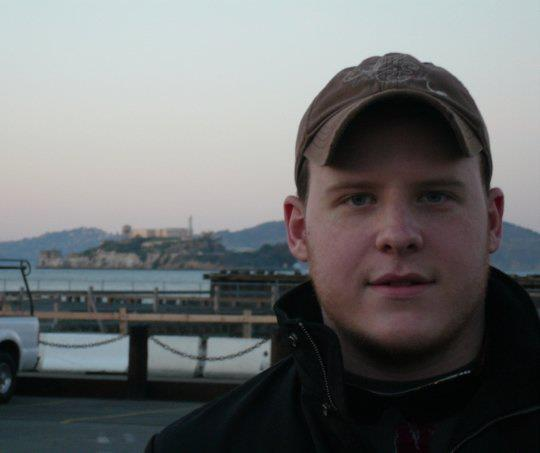
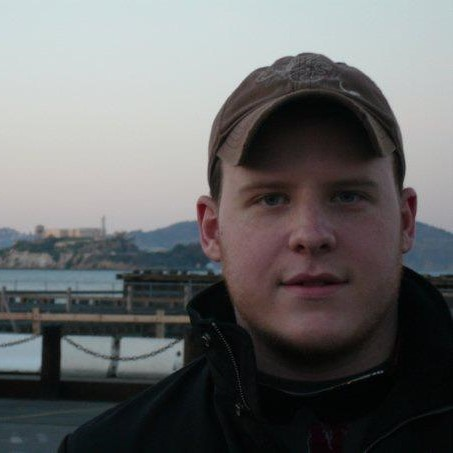
IMG adjustments
Profile image re-sized & adjusted
Adjusted scuba.webp formatting in-line

diff --git a/index.html b/index.html
@@ -243,7 +243,7 @@
        <div class="contact-container" id="Contactme">
           <div class="contact-row">
             <div class="contact-column">
-                <img src="/assets/img/scuba.webp" alt="Photo of me scuba diving taken by Ashley White" style=image-resolution:300dpi snap;>
+                <img src="/assets/img/scuba.webp" alt="Photo of me scuba diving taken by Ashley White">
                 </div>
           <div class="contact-column">
             <form action="/action_page.php">
@@ -275,7 +275,7 @@
       <section class="content-section bg-primary text-white">
         <div class="row">
             <div class="column">
-              <img src="/assets/img/profile.webp" alt="Alcatraz" style=image-resolution:300dpi snap;>
+              <img src="/assets/img/profile.jpg" alt="Alcatraz" style=image-resolution:300dpi snap;>
             </div>
             <div class="column">
               <img src="/assets/img/pupchair.webp" alt="Pup Assist Device" style=image-resolution:300dpi snap;>
